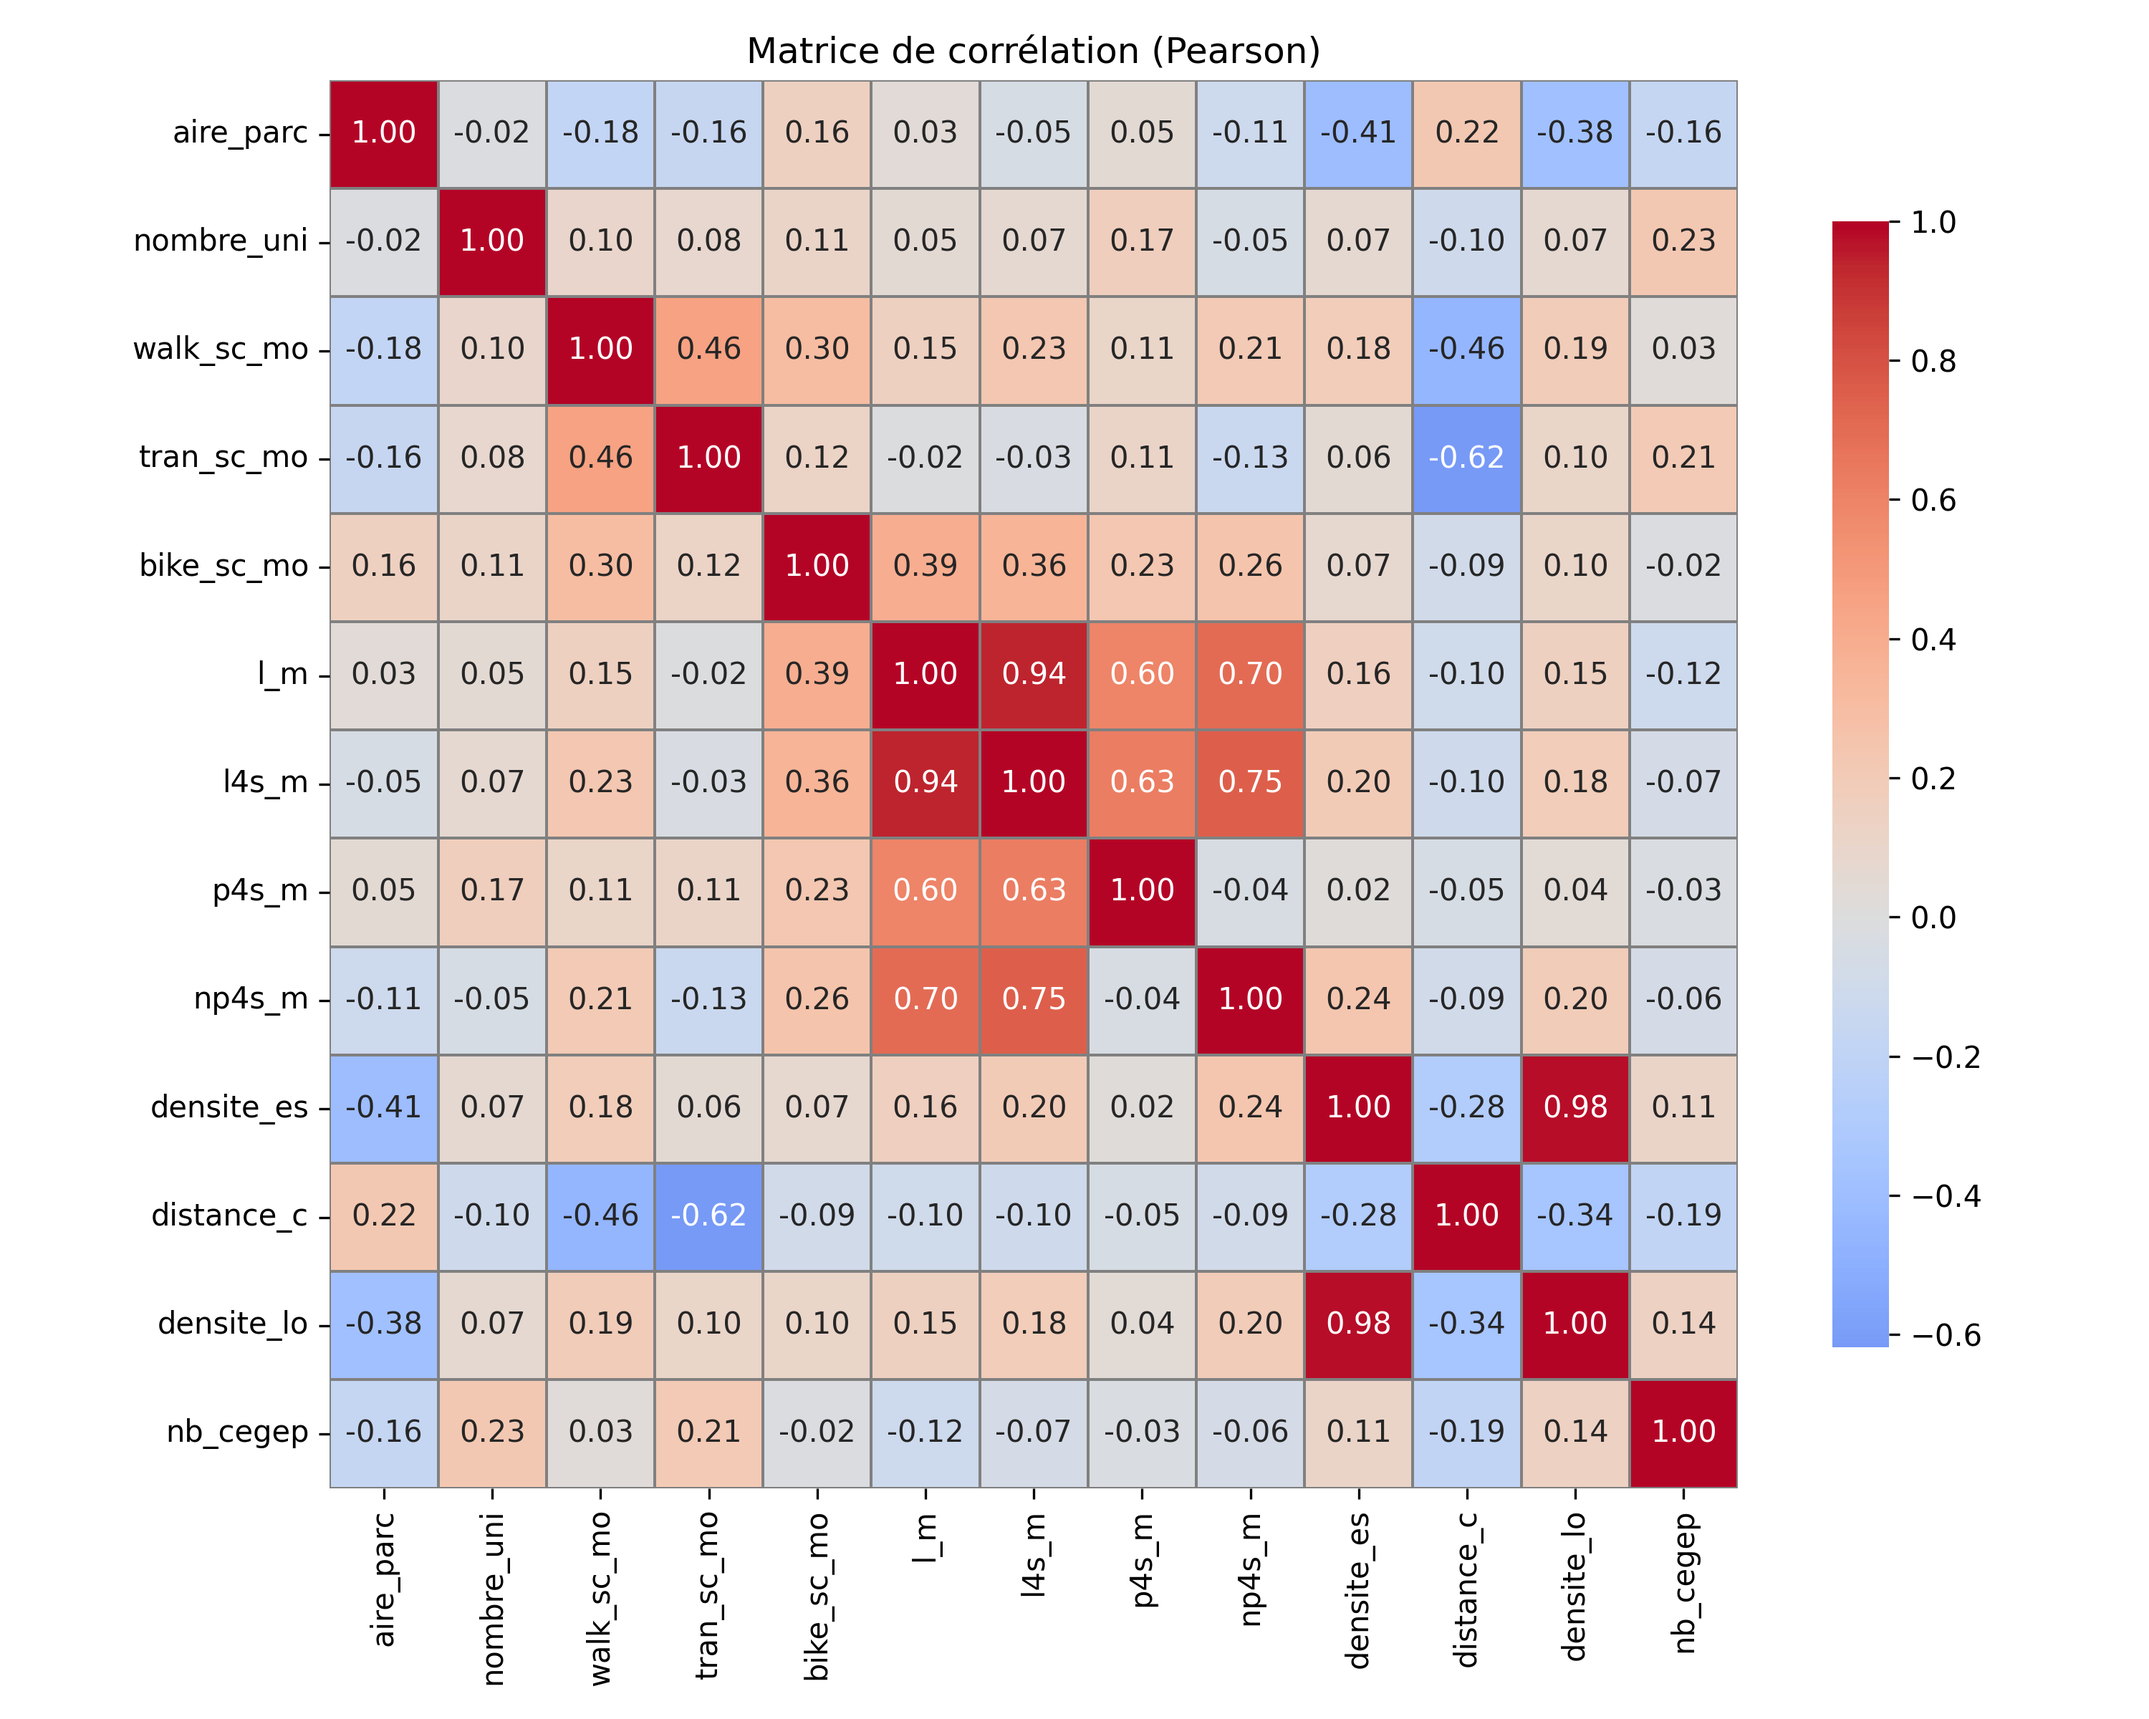
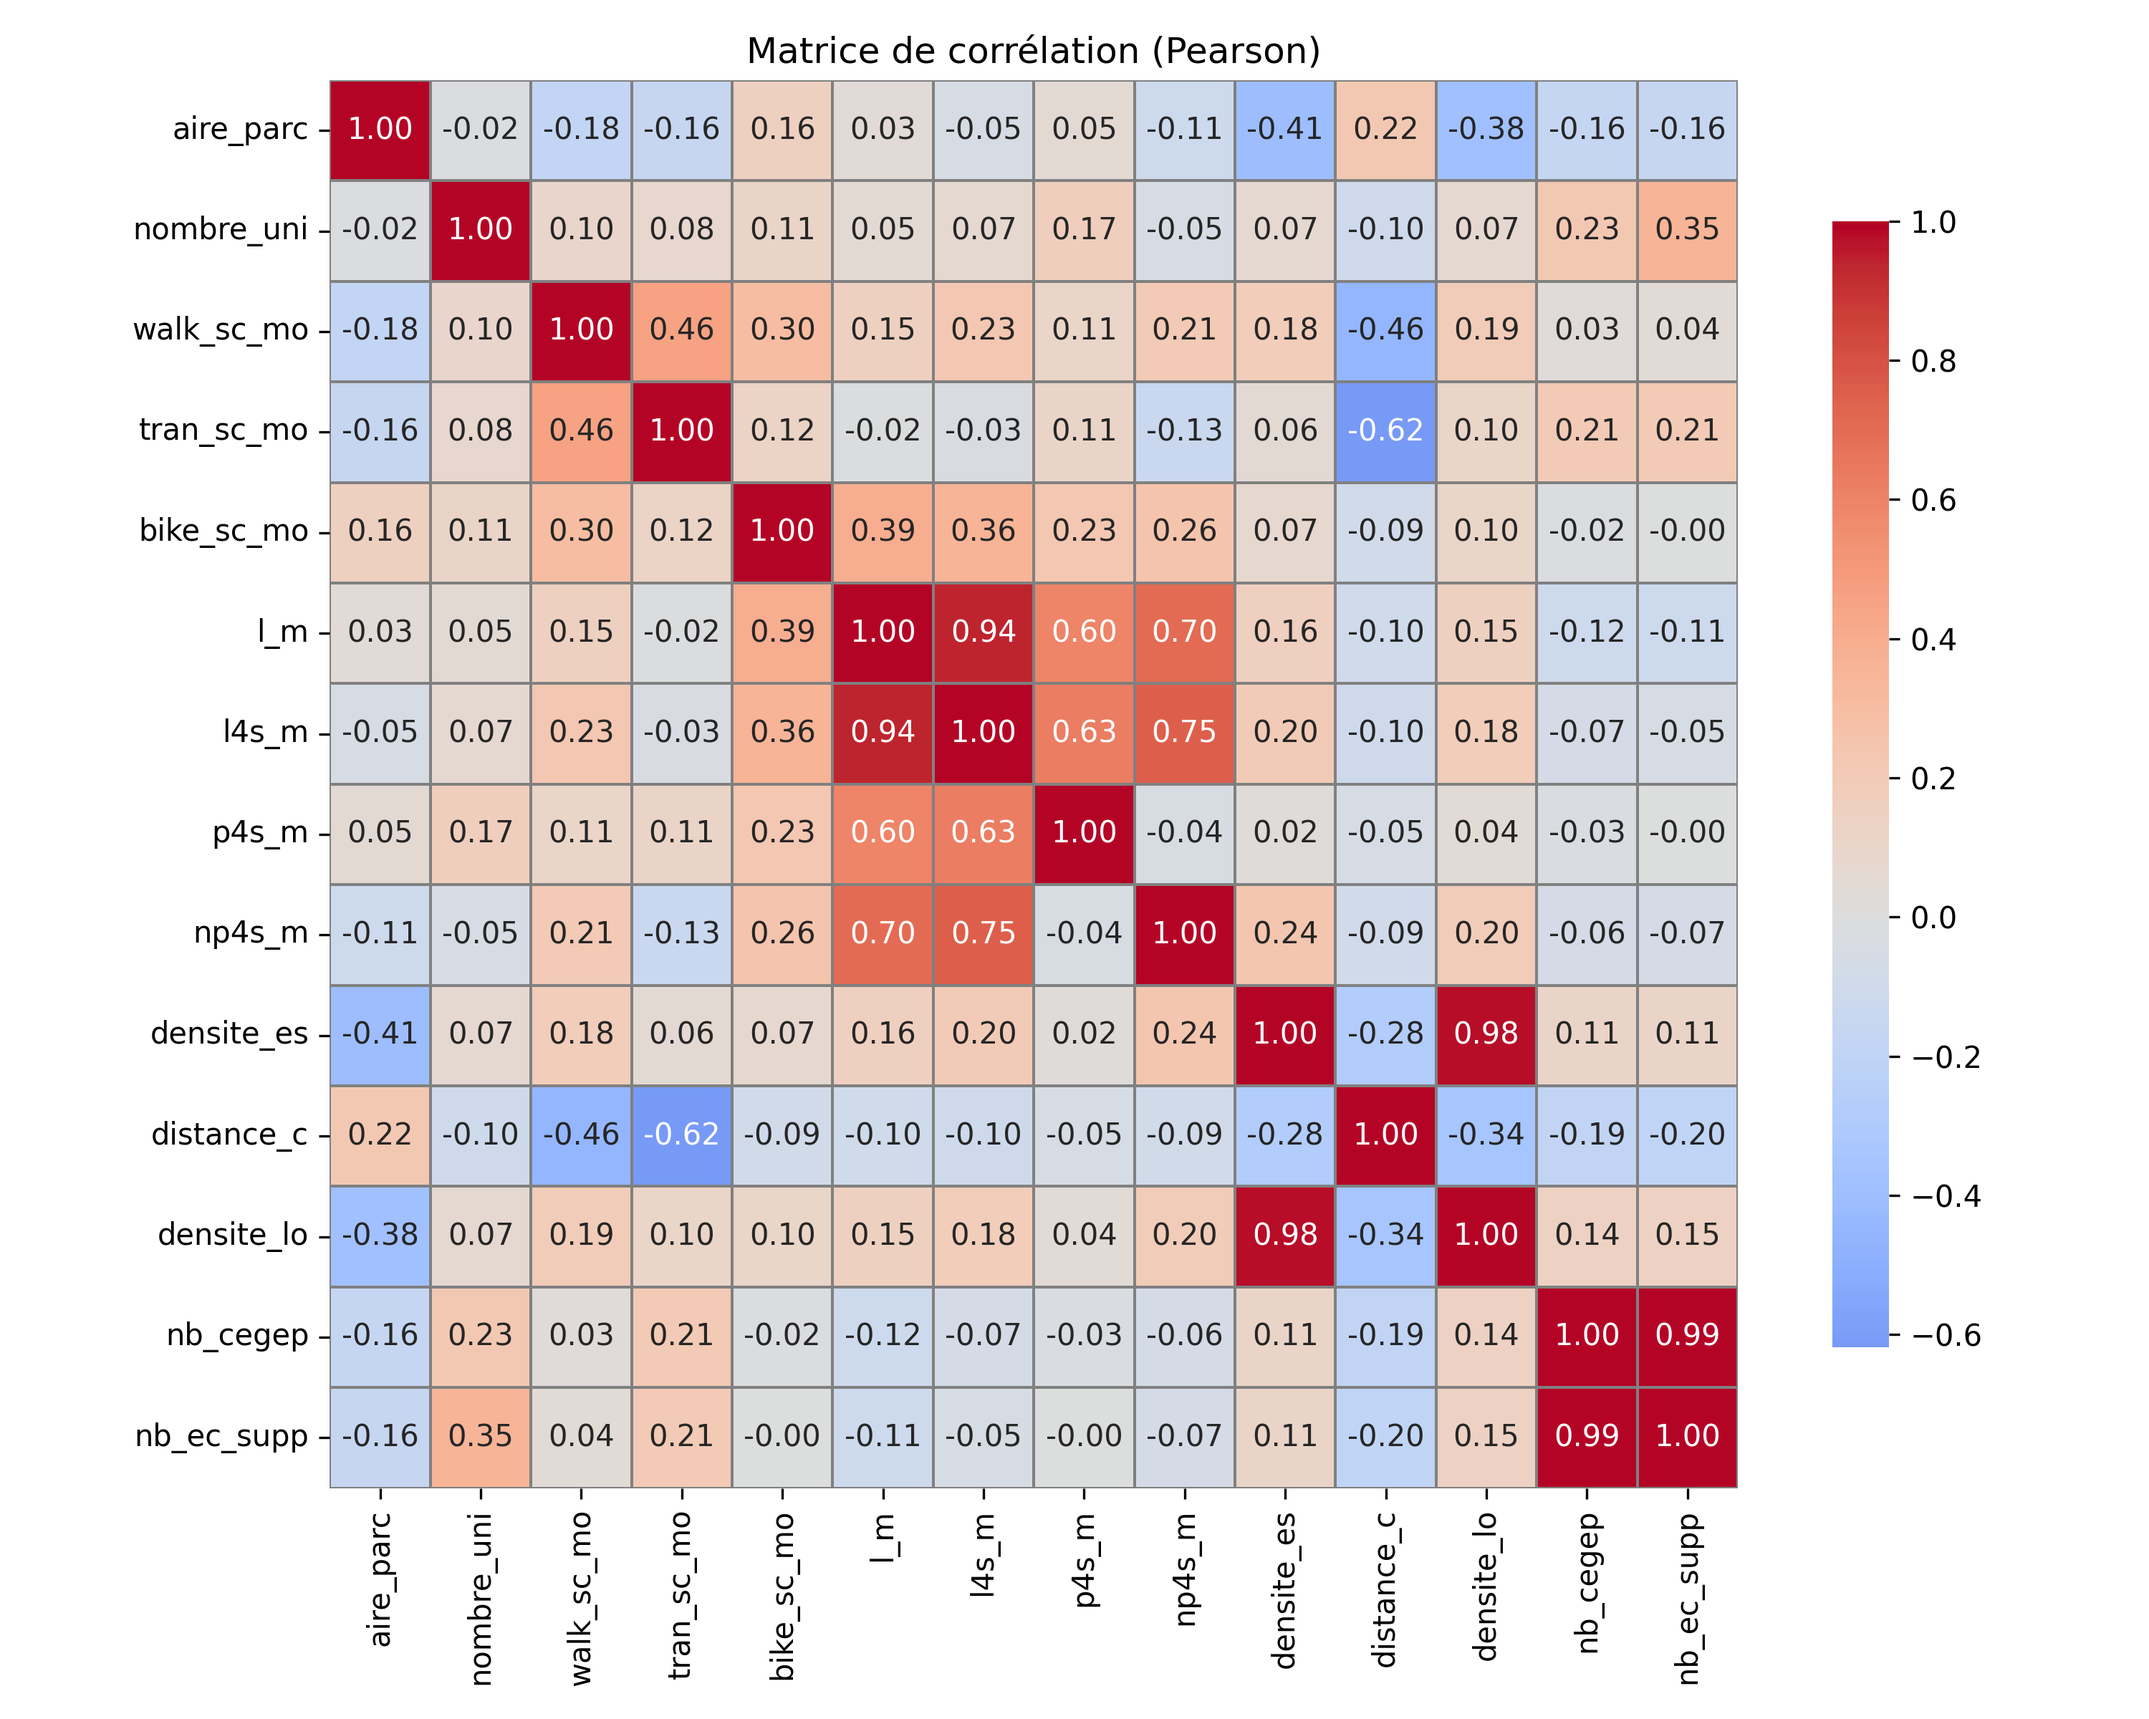
add ecole supp

diff --git a/scripts/visuals/shap_dependence.py b/scripts/visuals/shap_dependence.py
@@ -9,18 +9,18 @@ from sklearn.model_selection import train_test_split
 # Variables
 # -------------------
 colonnes_facteurs = [
-    "aire_parc", "nombre_uni", "walkscore_", "transitsco",
-    "bikescore_", #"longueur_m",
+    "aire_parc", "nombre_uni", "walk_sc_mo", "tran_sc_mo",
+    "bike_sc_mo", "l_m",
      "densite_es", "distance_c",
-    "densite_lo", #"nb_cegep"
+    "densite_lo", "nb_cegep"
 ]
 
 # Exemple : chargement des données
 
 # Exemple : chargement des données
-#df = gpd.read_file("../../data/processed/ete_2024/hexagones250m_ete_2024_popdens_bikepath_parcs_universites_zonage_logement.shp")
+#df = gpd.read_file("../../data/processed/ete_2024/hexagones250m_ete_2024_popdens_bikepath_parcs_universites_zonage_logement_cegep.shp")
 #df = gpd.read_file("../../data/processed/hiver_2324/hexagones250m_hiver_2023_2024_popdens_bikepath_parcs_universites_zonage_logement_cegep.shp")
-#df = gpd.read_file("../../data/processed/hiver2425/hexagones250m_hiver_2024_2025_popdens_bikepath_parcs_universites_zonage_logement.shp")
+df = gpd.read_file( "../../data/processed/hiver2425/hexagones250m_hiver_2024_2025_popdens_bikepath_parcs_universites_zonage_logement_cegep.shp")
 
 # -------------------
 # Séparation features / target
@@ -71,7 +71,7 @@ explainer = shap.TreeExplainer(model)
 shap_values = explainer.shap_values(X_valid)
 
 # Dependence plot pour la variable "transitsco"
-shap.dependence_plot("transitsco", shap_values, X_valid)
+shap.dependence_plot("aire_parc", shap_values, X_valid)
 
 import numpy as np
 
@@ -79,8 +79,8 @@ import numpy as np
 n_bins = 10
 
 # On récupère les valeurs de la variable et de SHAP
-x_vals = X_valid["transitsco"].values
-shap_vals = shap_values[:, X_valid.columns.get_loc("transitsco")]
+x_vals = X_valid["aire_parc"].values
+shap_vals = shap_values[:, X_valid.columns.get_loc("aire_parc")]
 
 # Découpage en quantiles pour répartir les buckets
 bins = pd.qcut(x_vals, q=n_bins, duplicates="drop")
@@ -98,8 +98,8 @@ bucket_means = pd.DataFrame({
 # Plot
 plt.figure(figsize=(7, 4))
 plt.plot(bucket_means["x_val"], bucket_means["shap_val"], marker="o")
-plt.title("SHAP dependence (bucketisé) - transitsco")
-plt.xlabel("Valeur moyenne de transitsco (par bucket)")
+plt.title("SHAP dependence - transitscore")
+plt.xlabel("Valeur moyenne de transitsco (par intervalle)")
 plt.ylabel("Valeur SHAP moyenne")
 plt.grid(True)
 plt.tight_layout()

diff --git a/scripts/visuals/generate_visuals.py b/scripts/visuals/generate_visuals.py
@@ -9,7 +9,7 @@ from scipy.stats import spearmanr
 import mapclassify
 # Dictionnaire pour labels des axes X
 LABELS_X = {
-    "aire_parc": "Superficie des parcs (ha)",
+    "aire_parc": "Présence de parcs (ha)",
     "nombre_uni": "Nombre d'universités",
     "walk_sc_mo": "Walk Score",
     "tran_sc_mo": "Transit Score",
@@ -21,7 +21,8 @@ LABELS_X = {
     "densite_es": "Densité de population (hab/ha)",
     "distance_c": "Distance au centre-ville (km)",
     "densite_lo": "Densité de logements (log/ha)",
-    "nb_cegep": "Nombre de cégeps"
+    "nb_cegep": "Nombre de cégeps",
+    "nb_ec_supp": "Présence d'établissements postsecondaires"
 }
 
 def analyser_relation(df, x_col, y_col, output_prefix, correlation_csv="../../output/correlations.csv", x_unit="",
@@ -226,7 +227,7 @@ def analyser_zonage(hexagones, output_path ):
 
 def main():
     # Chargement des données
-    season = "ete_2024"
+    season = "hiver_2425"
     if season == "ete_2024":
         hexagones = gpd.read_file("../../data/processed/ete_2024/hexagones250m_ete_2024_popdens_bikepath_parcs_universites_zonage_logement_cegep.shp")
     elif season == "hiver_2324":
@@ -290,11 +291,14 @@ def main():
     analyser_relation(hexagones, "nb_cegep", "nb_trajets", f"{season}/nb_cegep_vs_trajets",
                       correlation_csv=f"../../output/{season}/correlations.csv", decimals=0)
 
+    analyser_relation(hexagones, "nb_ec_supp", "nb_trajets", f"{season}/nb_ec_supp_vs_trajets",
+                      correlation_csv=f"../../output/{season}/correlations.csv", decimals=0)
+
     analyser_zonage(hexagones, output_path=f"../../output/{season}/zonage.png")
 
     colonnes_facteurs = [
         "aire_parc", "nombre_uni", "walk_sc_mo", "tran_sc_mo", "bike_sc_mo", "l_m", "l4s_m", "p4s_m", "np4s_m",
-        "densite_es", "distance_c", "densite_lo", "nb_cegep"
+        "densite_es", "distance_c", "densite_lo", "nb_cegep", "nb_ec_supp"
     ]
 
     generer_matrice_correlation(hexagones, colonnes_facteurs,

diff --git a/scripts/visuals/corr_comp_graph.py b/scripts/visuals/corr_comp_graph.py
@@ -2,6 +2,7 @@ import pandas as pd
 import matplotlib.pyplot as plt
 import numpy as np
 import matplotlib.patches as mpatches
+from scipy.stats import spearmanr
 
 # Dictionnaire x_variable → description
 dict_nom = {
@@ -15,7 +16,7 @@ dict_nom = {
     "p4s_m": "Couverture de pistes cyclables\n(protégées - 4 saisons)",
     "np4s_m": "Couverture de pistes cyclables\n(non protégées - 4 saisons)",
     "densite_es": "Densité de population",
-    "distance_c": "Distance au centre-ville",
+    "distance_c": "Proximité au centre-ville",
     "densite_lo": "Densité de logements",
     "nb_cegep": "Nombre de cégeps"
 }
@@ -41,6 +42,9 @@ def plot_correlation(R_col, p_col, output_file="correlations.png"):
     """
     # Charger les CSV
     dfs = [pd.read_csv(f) for f in files]
+    for df in dfs:
+        print( df[df['x_variable'] == 'distance_c']['spearman_r'].values[0])
+        df.loc[df['x_variable'] == 'distance_c', 'spearman_r'] = (-df.loc[df['x_variable'] == 'distance_c', 'spearman_r'].values[0])
 
     # Labels
     labels = [dict_nom[x] for x in dfs[0]["x_variable"]]

diff --git a/scripts/data/data_pipeline.py b/scripts/data/data_pipeline.py
@@ -10,11 +10,12 @@ from compute_distance_to_downtown import compute_distance_to_downtown
 from add_zoning_data import lister_affectations_par_hexagone
 from generate_housing_density_data import calculer_densite_logement_par_hexagone
 from add_college_data import ajouter_nombre_cegep_par_hexagone
+from add_up_uni_cegep import add_uni_cegep
 from clip_montreal import clip_mtl
 from create_index import create_index
 import yaml
 
-def load_config(path="config_hiver_2024_2025.yml"):
+def load_config(path="config_ete_2024.yml"):
     with open(path, "r") as f:
         return yaml.safe_load(f)
 
@@ -117,6 +118,10 @@ def main():
         ajouter_nombre_cegep_par_hexagone(
             path_hexagones=paths["hex_logement"],
             path_cegep=paths["cegep"],
+            output_path=paths["hex_cegep"]
+        )
+        add_uni_cegep(
+            path_hexagones=paths["hex_cegep"],
             output_path=paths["hex_cegep"]
         )
 

diff --git a/scripts/data/add_up_uni_cegep.py b/scripts/data/add_up_uni_cegep.py
@@ -1,0 +1,11 @@
+import geopandas as gpd
+
+def add_uni_cegep(path_hexagones, output_path):
+
+    # 1. Charger les données
+    hexagones = gpd.read_file(path_hexagones)
+
+    hexagones['nb_ec_supp'] = hexagones['nb_cegep'] + hexagones['nombre_uni']
+
+    # 7. Export
+    hexagones.to_file(output_path)
